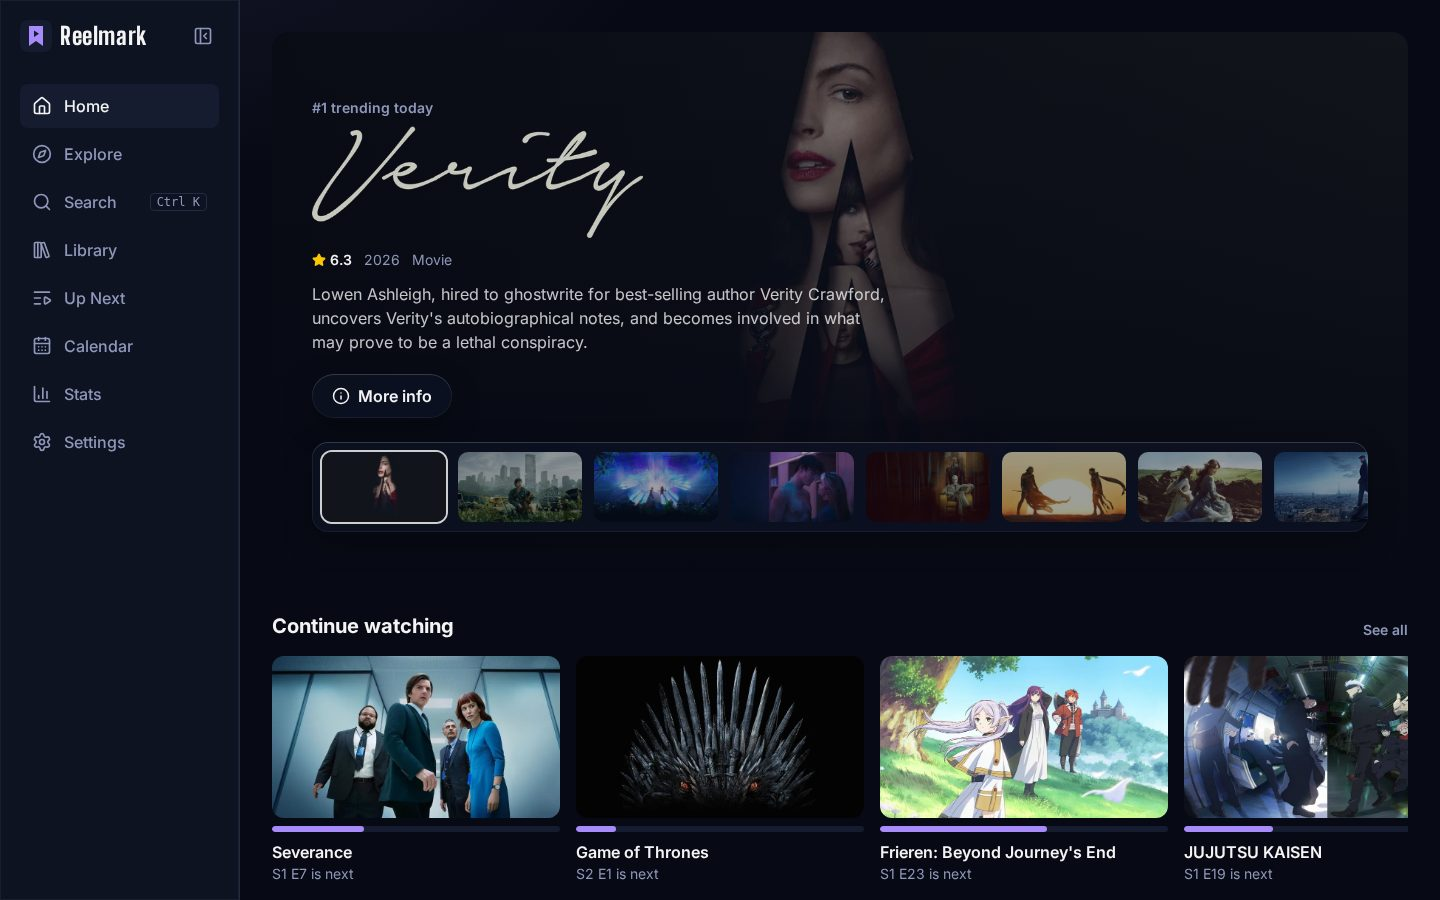
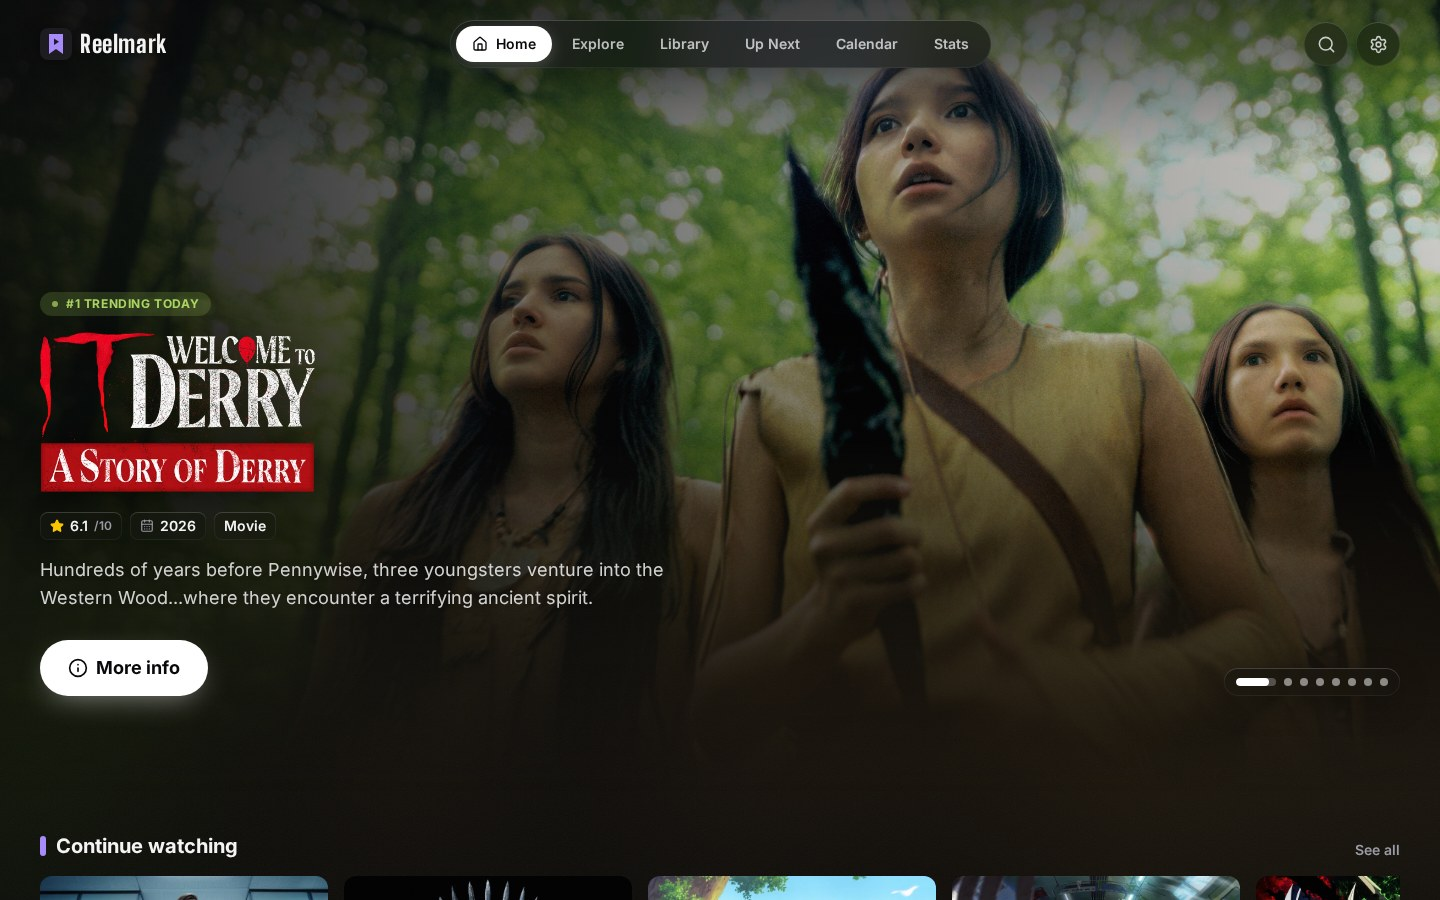
new screenshots, update readme

diff --git a/README.md b/README.md
@@ -8,18 +8,18 @@ Keep track of the movies, shows and anime you watch. Tick off episodes, see what
 
 ## Features
 
-- **Home** is all about you: continue watching, new episodes from your shows this week, "because you watched..." picks, and a **what should I watch tonight?** picker that chooses from your Plan to watch list by mood and time. The banner on top shows each title's real logo
+- **Home** is all about you: continue watching, new episodes from your shows this week, "because you watched..." picks, and a **what should I watch tonight?** picker that chooses from your Plan to watch list by mood and time. The banner on top is full screen, shows each title's real logo, and the whole page takes the colors of the movie on screen
 - **Explore** has a row that changes with the month (spooky in October, cozy in December...), the newest trailers, top 10 today, coming soon with a countdown, streaming apps in India (Netflix, Prime Video, JioHotstar...), moods, genres, hidden gems and decades, plus a "see all" grid with filters and infinite scroll
 - **Search** everything at once, open it from anywhere with `Ctrl + K`
 - **Details page** with trailer, cast, reviews, where to watch in India, an IMDb link and similar titles
 - **Track** anything as Watching, Plan to watch, Completed, On hold, Dropped or Rewatching (each with its own color), and rate it out of 5
-- **Episode tracking** per season. A show moves to Completed by itself when you finish the last episode
+- **Episode tracking** per season, with episode pictures you scroll through and a season picker. It opens at your next episode. A show moves to Completed by itself when you finish the last episode
 - **Spoiler mode** blurs names and pictures of episodes you haven't seen
 - **Up Next** shows the next episode of every show you're watching, sorted how you like, with how many episodes and hours are left
-- **Calendar** with new episodes and movie releases from your library, click a day to see just that day
+- **Calendar** with new episodes and movie releases from your library, with the exact air time in your timezone. Click a day to see just that day
 - **Stats**: total watch time, streaks, a 12 month activity heatmap, hours per month and top genres
 - **Wrapped**: a "your year in watching" card you can download as a picture
-- **Settings**: pick the main color of the app (18 colors), spoiler mode, and export or import your library (it's all saved in your browser)
+- **Settings**: pick the main color of the app (18 colors, the background changes with it too), spoiler mode, and export or import your library (it's all saved in your browser)
 
 | Episodes | Up Next |
 | --- | --- |
@@ -41,6 +41,7 @@ Keep track of the movies, shows and anime you watch. Tick off episodes, see what
 - Zustand (the library is saved to localStorage with its `persist` middleware)
 - html-to-image for the wrapped picture
 - [TMDB API](https://developer.themoviedb.org/docs) for all movie and show data
+- [TVmaze API](https://www.tvmaze.com/api) for episode air times
 
 ## Run it locally
 
@@ -54,4 +55,4 @@ npm run dev
 
 ## Credits
 
-This product uses the TMDB API but is not endorsed or certified by TMDB. Streaming info comes from JustWatch.
+This product uses the TMDB API but is not endorsed or certified by TMDB. Streaming info comes from JustWatch, air times from TVmaze.
